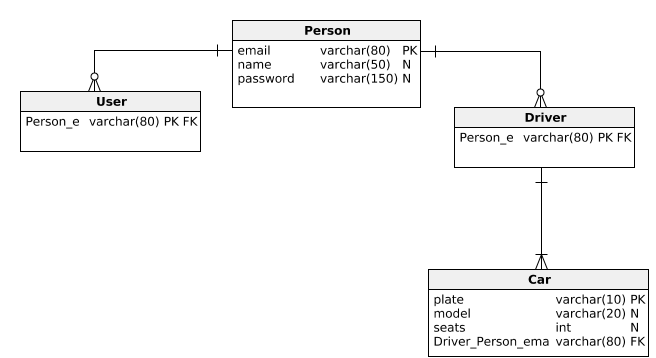
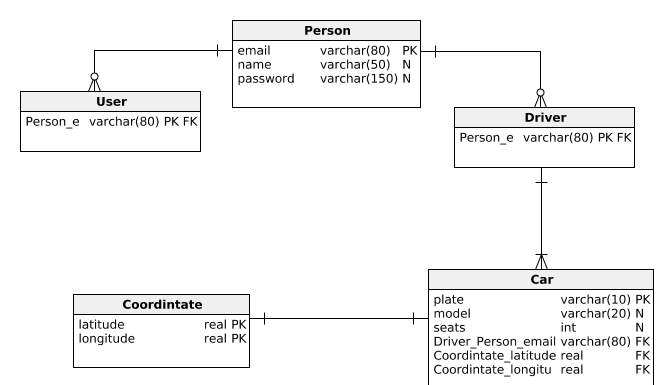
Coordinates

diff --git a/src/main/java/edu/eci/arsw/synchdrive/model/Car.java b/src/main/java/edu/eci/arsw/synchdrive/model/Car.java
@@ -1,9 +1,10 @@
 package edu.eci.arsw.synchdrive.model;
 
 import javax.persistence.*;
+import java.io.Serializable;
 
 @Entity
-public class Car {
+public class Car implements Serializable {
 
     @Id
     private String plate;
@@ -16,6 +17,9 @@ public class Car {
 
     @ManyToOne
     private Driver driver;
+
+    @OneToOne(cascade = CascadeType.ALL)
+    private Coordinate coordinate;
 
     public String getPlate() {
         return plate;
@@ -47,5 +51,13 @@ public class Car {
 
     public void setDriver(Driver driver) {
         this.driver = driver;
+    }
+
+    public Coordinate getCoordinate() {
+        return coordinate;
+    }
+
+    public void setCoordinate(Coordinate coordinate) {
+        this.coordinate = coordinate;
     }
 }

diff --git a/src/main/java/edu/eci/arsw/synchdrive/model/Coordinate.java b/src/main/java/edu/eci/arsw/synchdrive/model/Coordinate.java
@@ -1,0 +1,35 @@
+package edu.eci.arsw.synchdrive.model;
+
+import javax.persistence.Column;
+import javax.persistence.Entity;
+import javax.persistence.Id;
+import java.io.Serializable;
+
+@Entity
+public class Coordinate implements Serializable {
+
+    @Id
+    @Column
+    private Double latitude;
+
+    @Id
+    @Column
+    private Double longitude;
+
+    public Double getLatitude() {
+        return latitude;
+    }
+
+    public void setLatitude(Double latitude) {
+        this.latitude = latitude;
+    }
+
+    public Double getLongitude() {
+        return longitude;
+    }
+
+    public void setLongitude(Double longitude) {
+        this.longitude = longitude;
+    }
+
+}

diff --git a/src/main/java/edu/eci/arsw/synchdrive/model/Driver.java b/src/main/java/edu/eci/arsw/synchdrive/model/Driver.java
@@ -2,10 +2,11 @@ package edu.eci.arsw.synchdrive.model;
 
 import javax.persistence.Entity;
 import javax.persistence.OneToMany;
+import java.io.Serializable;
 import java.util.List;
 
 @Entity
-public class Driver extends Person {
+public class Driver extends Person implements Serializable {
 
     @OneToMany(mappedBy = "driver")
     private List<Car> cars;

diff --git a/src/main/java/edu/eci/arsw/synchdrive/model/Person.java b/src/main/java/edu/eci/arsw/synchdrive/model/Person.java
@@ -1,13 +1,14 @@
 package edu.eci.arsw.synchdrive.model;
 
 import javax.persistence.*;
+import java.io.Serializable;
 
 
 @Entity
 @Inheritance(
         strategy = InheritanceType.JOINED
 )
-public class Person {
+public class Person implements Serializable {
 
     @Id
     private String email;

diff --git a/src/main/java/edu/eci/arsw/synchdrive/model/User.java b/src/main/java/edu/eci/arsw/synchdrive/model/User.java
@@ -1,8 +1,9 @@
 package edu.eci.arsw.synchdrive.model;
 
 import javax.persistence.Entity;
+import java.io.Serializable;
 
 @Entity
-public class User extends Person {
+public class User extends Person implements Serializable {
 
 }
